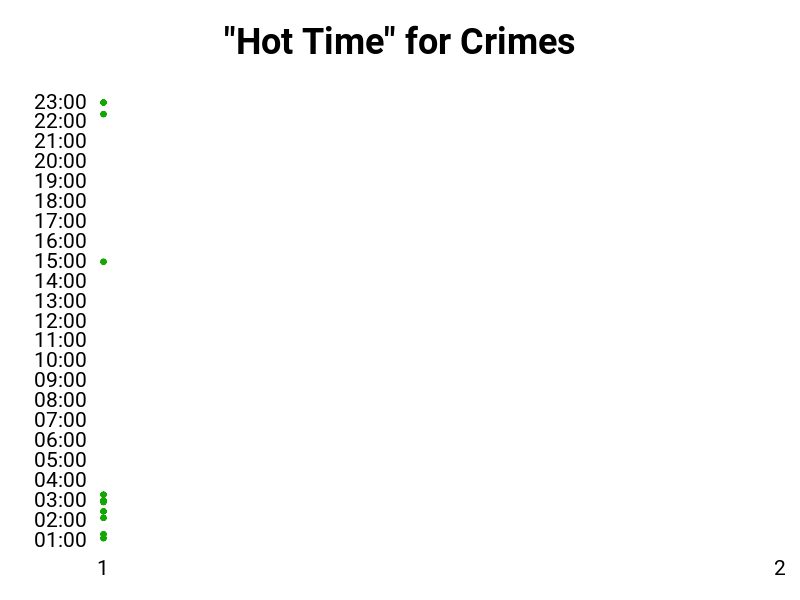
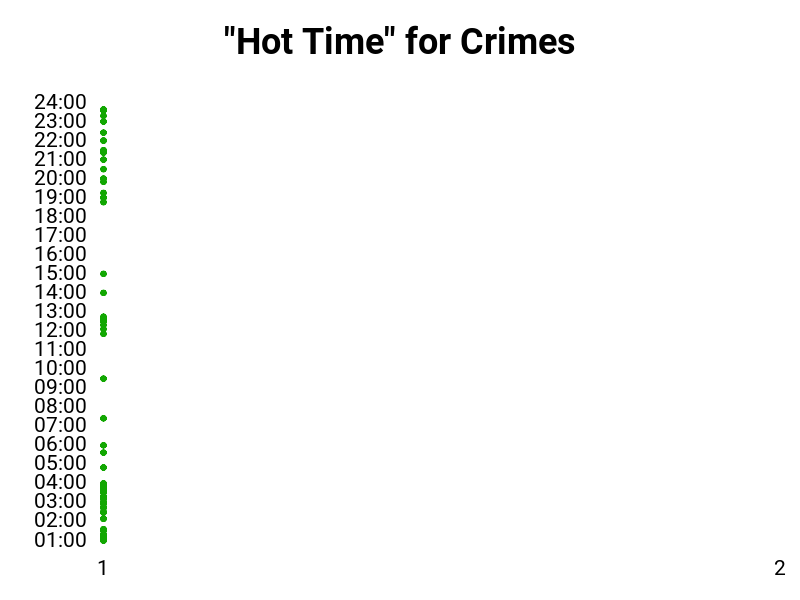
fixed bug: graph now displays all crime times from 2017-2021

Changed region(s): [[0.0312, 0.15, 0.1562, 0.87]]

diff --git a/graph.rb b/graph.rb
@@ -1,3 +1,6 @@
+require_relative 'notice'
+require_relative 'page'
+
 class Graph
   attr_accessor :x, :y, :scatter_graph
 
@@ -10,8 +13,19 @@ class Graph
 
   # get the time in 24 hour clock
   def set_time(time)
+    time_holder = []
+    if time.to_s.include? ':'
+      # eg: 11:54 am
+      time_holder = time.to_s.split(':')
+      have_minute = true
+    else
+      # eg: 11 am
+      time_holder = time.to_s.split(' ')
+      have_minute = false
+    end
+
     # seperate the hour
-    time_holder = time.to_s.split ':'
+    hour = 12
     if time.to_s.include? 'p.m.'
       hour = time_holder[0].to_i + 12 unless time_holder[0].to_i == 12
     else
@@ -19,8 +33,11 @@ class Graph
     end
 
     # seperate the minute
-    time_holder = time_holder[1].to_s.split ' '
-    minute = time_holder[0].to_i / 60.0
+    minute = 0.0
+    if have_minute
+      time_holder = time_holder[1].to_s.split ' '
+      minute = time_holder[0].to_i / 60.0
+    end
 
     # hour.minute
     hour + minute
@@ -55,7 +72,17 @@ class Graph
       end
     end
   end
-  
+
+  # sets the x & y for the graph
+  def get_data_points(page_array, graph)
+    page_array.each do |page|
+      page.notices.each do |notice|
+        # checks if time is string with all white spaces
+        @y << graph.set_time(notice.time) unless notice.time.to_s.strip.empty?
+      end
+    end
+    @x = (1..@y.length).map { 1 }
+  end
 end
 
 # DELETE EVERYTHING BELOW LATER

diff --git a/main.rb b/main.rb
@@ -19,13 +19,10 @@ scrape.page_array << Page.new(link)
 scrape.get_num_of_pages(scrape.page_array[0].page)
 scrape.create_link(link)
 
-notices = scrape.page_array[0].notices
-# Graph for displaying crime time
-# creates a png of the graph
+# Graph for displaying crime time - creates a png of the graph
+puts 'Creating Graph...'
 crime_time_graph = Graph.new
-notices.each_index do |i|
-  crime_time_graph.y << crime_time_graph.set_time(notices[i].time)
-end
-crime_time_graph.x = (1..crime_time_graph.y.length).map { 1 }
+crime_time_graph.get_data_points scrape.page_array, crime_time_graph
 crime_time_graph.scatter_graph.data('crime time', crime_time_graph.x, crime_time_graph.y)
 crime_time_graph.scatter_graph.write('crime_time.png')
+puts 'Graph has been created.'

diff --git a/notice.rb b/notice.rb
@@ -15,11 +15,11 @@ class Notice
     @time = @description[/\d+(:\d+)* (a|p)\.m\./]
     @location = @description.scan(/([0-9A-Za-z]+) (Avenue|St |Ave|Street|Court|Square|Place)/)
 
-    puts '*****'
-    puts @date
+    # puts '*****'
+    # puts @date
     # puts @time
     # puts @location[0]
     # puts @location[1]
-    puts '*****'
+    # puts '*****'
   end
 end

diff --git a/page.rb b/page.rb
@@ -20,7 +20,7 @@ class Page
     end
   end
 
-  # creates the notices to retrieve data from
+  # gets all the notices from the page to retrieve data from
   def create_notice
     @notice_links.each do |link|
       @notices << (Notice.new link)
